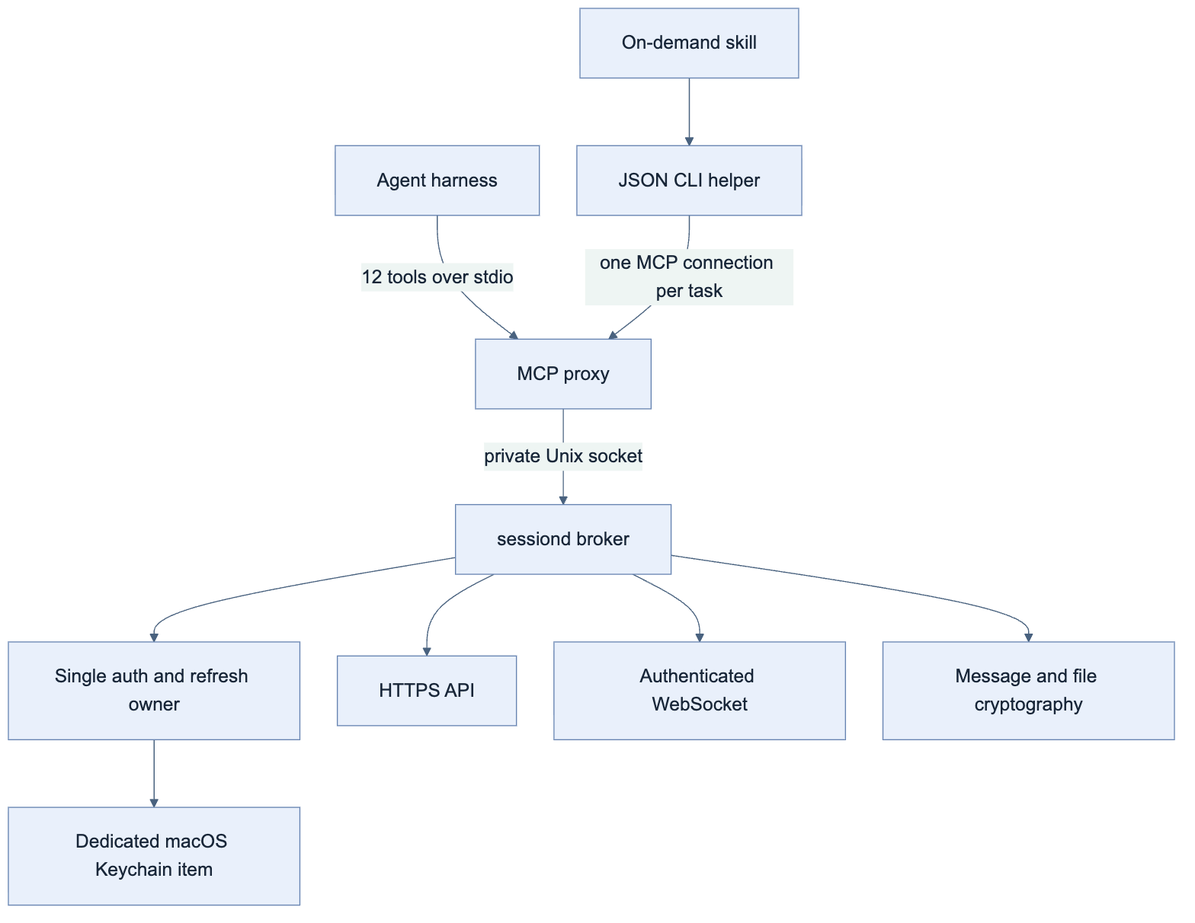
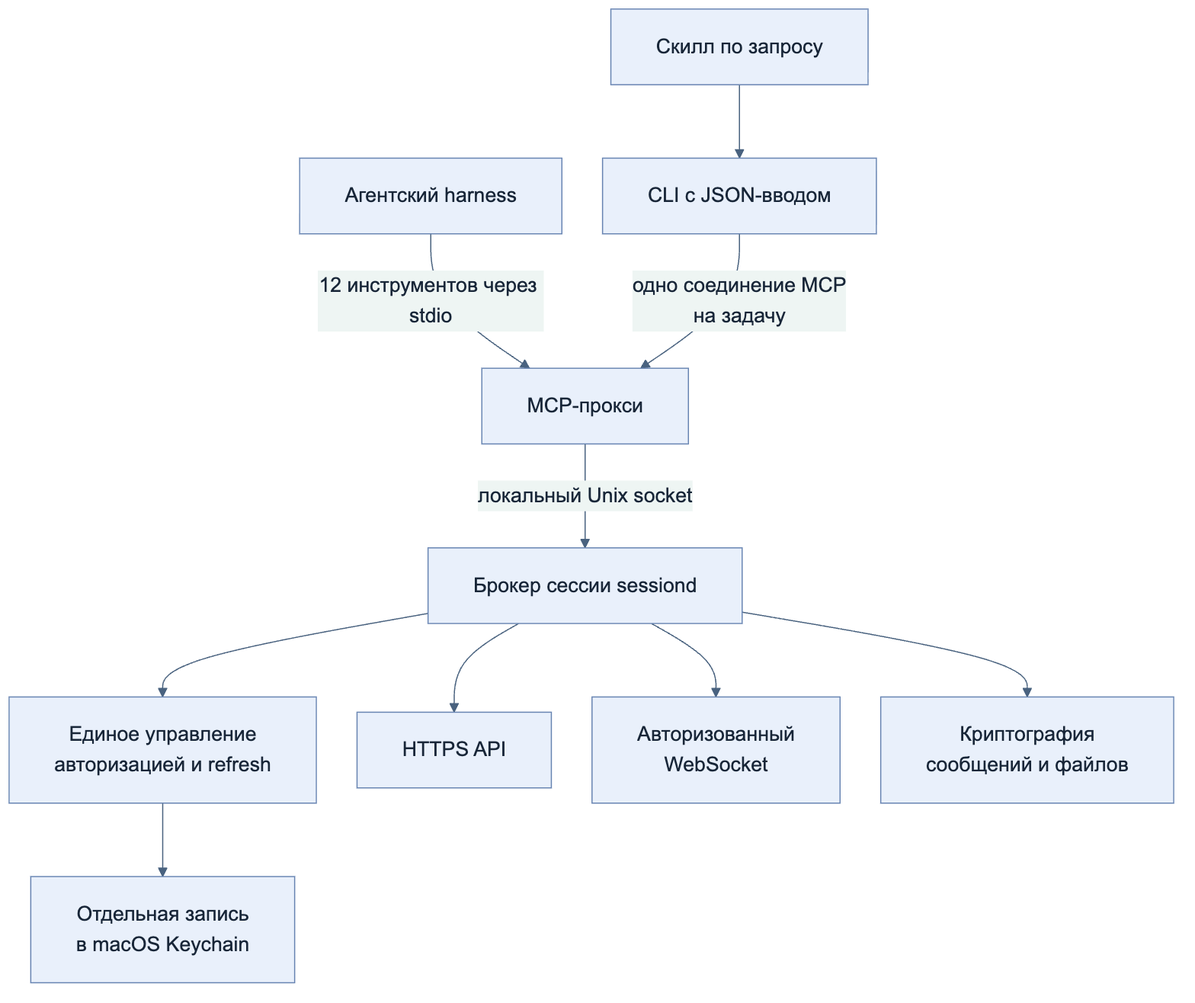
Translate README and architecture diagrams into Russian

diff --git a/README.md b/README.md
@@ -1,23 +1,23 @@
 # express-mcp
 
-An unofficial **eXpress messenger MCP server** for personal agents on macOS. Read chats and group threads, find people, send text or attachments, and download verified files. A persistent session broker owns authentication; short-lived agents connect over a private Unix socket.
+Неофициальный **MCP-сервер для мессенджера eXpress** и персональных агентов на macOS. Позволяет читать чаты и треды в группах, искать людей, отправлять сообщения и вложения, а также скачивать файлы с проверкой целостности. Авторизацией управляет постоянно работающий брокер сессии. Агенты подключаются к нему через локальный Unix socket и могут завершаться, не прерывая сессию.
 
-**Start here:** [Install](#install-on-macos) → [Log in](#log-in) → [Connect your agent](#agent-harness-quick-guide).
+**Начало работы:** [Установка](#установка-на-macos) → [Вход](#вход) → [Подключение к агентам](#подключение-к-агентам).
 
-## Architecture
+## Архитектура
 
-![Session broker and on-demand agent architecture](docs/diagrams/architecture.png)
+![Архитектура брокера сессии и подключения агента по запросу](docs/diagrams/architecture.png)
 
-- `sessiond` holds the only upstream connection and refresh writer. A native process lease prevents two local brokers from owning the same session.
-- Tokens, keys, device identity and rotation generation live together in a dedicated Keychain item. The official app's credentials are never read. MCP returns content and sanitized diagnostics, not credentials.
-- Each MCP caller has separate, short-lived confirmations and pagination cursors. Closing a connection discards that state; restarting an agent does not log out the broker.
-- Origins are explicitly configured and HTTPS-validated. QR enrollment must match the configured CTS exactly. Redirects are rejected; custom trust roots can be supplied with `NODE_EXTRA_CA_CERTS` before installation.
+- `sessiond` управляет взаимодействием с сервером и обновлением токенов. Системная блокировка не позволяет двум локальным брокерам одновременно владеть одной сессией.
+- Токены, ключи, идентификатор устройства и номер поколения токенов хранятся вместе в отдельной записи macOS Keychain. Учётные данные официального приложения не читаются. Через MCP возвращаются содержимое чатов и диагностика без секретов.
+- У каждого MCP-подключения свои короткоживущие подтверждения отправки и курсоры пагинации. При закрытии подключения они удаляются, но сессия брокера продолжает работать.
+- Адреса серверов задаются явно и проверяются как HTTPS origins. При входе через QR адрес CTS должен точно совпасть с конфигурацией. HTTP-редиректы запрещены. Дополнительные корневые сертификаты можно подключить через `NODE_EXTRA_CA_CERTS` перед установкой.
 
-![QR enrollment and refresh rotation sequence](docs/diagrams/authentication.png)
+![Последовательность входа через QR и обновления токенов](docs/diagrams/authentication.png)
 
-## Install on macOS
+## Установка на macOS
 
-Requires **Node.js 22+**, npm, an active macOS user login with an accessible login Keychain, and Xcode Command Line Tools (`xcode-select --install`). This release is source-installed; it is not published to npm. Linux and Windows session brokers are not supported.
+Нужны **Node.js 22+**, npm, активный вход пользователя в macOS с доступной связкой ключей `login` и Xcode Command Line Tools (`xcode-select --install`). Эта версия устанавливается из исходников и не опубликована в npm. Запуск брокера на Linux и Windows не поддерживается.
 
 ```sh
 git clone https://github.com/artdaal/express-mcp.git
@@ -26,7 +26,7 @@ npm ci
 npm run build
 ```
 
-Create a private JSON configuration outside this repository. Obtain the **exact CTS origin**, ETS origin, web origin and client package identifier from your deployment administrator. The values below are examples, not a working public service:
+Создайте приватный JSON-файл конфигурации за пределами репозитория. У администратора вашей инсталляции нужно узнать **точный CTS origin**, адреса ETS и веб-клиента, а также идентификатор пакета клиента. Значения ниже приведены для примера — работающего сервиса по этим адресам нет:
 
 ```json
 {
@@ -44,9 +44,9 @@ node dist/src/cli.js configure < /absolute/private/deployment.json
 node dist/src/cli.js install
 ```
 
-`configure` writes an owner-only configuration under `~/Library/Application Support/express-mcp/`. `install` compiles the small Swift helpers, installs a user LaunchAgent and checks broker readiness. It creates a private rollback backup and **does not modify any agent harness configuration**. Re-run `install` after changing configuration or upgrading the checkout. Keep the checkout at a stable path.
+`configure` сохраняет конфигурацию в `~/Library/Application Support/express-mcp/` с доступом только для владельца. `install` компилирует небольшие утилиты на Swift, устанавливает пользовательский LaunchAgent и проверяет готовность брокера. Перед заменой LaunchAgent создаётся приватная резервная копия для отката. **Настройки агентских harness не меняются.** Повторяйте `install` после изменения конфигурации или обновления исходников. Не перемещайте каталог установленного репозитория.
 
-## Log in
+## Вход
 
 ```sh
 node dist/src/cli.js login
@@ -54,15 +54,15 @@ node dist/src/cli.js status
 node dist/src/cli.js session-smoke
 ```
 
-`login` opens a loopback-only QR page on the broker Mac. Scan it in the official mobile client and approve the device. The compatibility profile appears as **Chrome 149.0** on the phone; it does not launch a browser engine for API calls. A QR expires after two minutes; its local page offers renewal for ten minutes.
+`login` открывает страницу с QR на том Mac, где работает брокер. Страница доступна только через loopback. Отсканируйте код официальным мобильным клиентом и подтвердите подключение устройства. В режиме совместимости на телефоне отображается **Chrome 149.0**, хотя браузерный движок для API-запросов не запускается. QR действует две минуты, а получить новый код на той же локальной странице можно в течение десяти минут.
 
-`status` reports local state. `session-smoke` performs an authenticated list and reads one recent message without sending anything; reads may mark a chat read. `authState:ready` alone is not an end-to-end test.
+`status` показывает локальное состояние. `session-smoke` проверяет авторизованный доступ: получает список чатов и читает одно недавнее сообщение, ничего не отправляя. Чтение может отметить чат прочитанным. Сам по себе `authState:ready` ещё не подтверждает работоспособность всей цепочки.
 
-Enroll **each Mac separately**. Never clone a rotating refresh credential into two running brokers. Over SSH, the login page belongs to the remote Mac; use a trusted local port-forward/session to that Mac for enrollment, and ensure its user Keychain is available.
+Подключайте **каждый Mac отдельно**. Не копируйте один ротируемый refresh token в два работающих брокера. При работе по SSH страница входа открывается на удалённом Mac. Для доступа к ней используйте доверенное удалённое подключение или локальный port forwarding; связка ключей пользователя на этом Mac должна быть доступна.
 
-## Agent harness quick guide
+## Подключение к агентам
 
-Use absolute paths and the same macOS user as the broker. Replace `/absolute/express-mcp` below with your checkout. Restart or refresh the harness MCP session after changing its configuration.
+Указывайте абсолютные пути и запускайте MCP от того же пользователя macOS, что и брокер. В примерах замените `/absolute/express-mcp` на путь к своему репозиторию. После изменения настроек перезапустите или обновите MCP-сессию в harness.
 
 ### Codex
 
@@ -70,7 +70,7 @@ Use absolute paths and the same macOS user as the broker. Replace `/absolute/exp
 codex mcp add express -- /absolute/path/to/node /absolute/express-mcp/dist/src/cli.js serve
 ```
 
-Equivalent `~/.codex/config.toml` entry:
+Эквивалентная запись в `~/.codex/config.toml`:
 
 ```toml
 [mcp_servers.express]
@@ -78,15 +78,15 @@ command = "/absolute/path/to/node"
 args = ["/absolute/express-mcp/dist/src/cli.js", "serve"]
 ```
 
-See [Codex MCP configuration](https://learn.chatgpt.com/docs/extend/mcp?surface=cli). Ask the agent to check `express_status`, then list or read a known chat.
+Подробнее — в [документации по MCP в Codex](https://learn.chatgpt.com/docs/extend/mcp?surface=cli). Попросите агента вызвать `express_status`, затем получить список чатов или прочитать знакомый чат.
 
-### Claude Code and other MCP harnesses
+### Claude Code и другие MCP-клиенты
 
 ```sh
 claude mcp add --transport stdio --scope user express -- /absolute/path/to/node /absolute/express-mcp/dist/src/cli.js serve
 ```
 
-See [Claude Code MCP configuration](https://code.claude.com/docs/en/mcp). Other harnesses can use this standard stdio configuration:
+См. [настройку MCP в Claude Code](https://code.claude.com/docs/en/mcp). Для других harness подойдёт стандартная конфигурация stdio:
 
 ```json
 {
@@ -99,57 +99,57 @@ See [Claude Code MCP configuration](https://code.claude.com/docs/en/mcp). Other 
 }
 ```
 
-### OpenClaw: load capabilities on demand
+### OpenClaw: подключение по запросу
 
-Install the skill only in the intended agent's workspace:
+Установите скилл в workspace нужного агента:
 
 ```sh
 node scripts/install-skill.mjs --workspace /absolute/openclaw/workspace
 ```
 
-The installer copies a real skill directory and records local executable paths. It adds **zero global MCP tools**. Only the skill's short discovery description is available by default; its instructions load when the agent selects it. Start a fresh agent session and ask, for example, “Find the Project chat in eXpress and summarize recent replies.” See [OpenClaw skill loading](https://docs.openclaw.ai/tools/skills).
+Установщик копирует каталог скилла и сохраняет локальные пути к исполняемым файлам. **Глобальные MCP-инструменты не добавляются.** По умолчанию агент видит только короткое описание скилла; полные инструкции загружаются, когда он выбирает его для задачи. Начните новую сессию и попросите, например: «Найди в eXpress чат проекта и кратко перескажи последние ответы». Механизм описан в [документации OpenClaw](https://docs.openclaw.ai/tools/skills).
 
-The skill invokes a bounded JSON CLI. Preparation and sending share one MCP connection, avoiding confirmation failures caused by separate one-shot MCP invocations. A manual read-only check:
+Скилл вызывает CLI с JSON-вводом и ограниченным объёмом результата. Подготовка и отправка выполняются в одном MCP-подключении: подтверждение не теряется между отдельными запусками клиента. Пример ручной проверки без отправки сообщений:
 
 ```sh
 node dist/src/cli.js agent <<'JSON'
-{"operation":"search-chats","query":"Project","limit":50,"pages":3}
+{"operation":"search-chats","query":"Проект","limit":50,"pages":3}
 JSON
 ```
 
-Verify discovery with `openclaw skills --agent main info express-messenger --json` (replace `main` with your agent ID). If the directory is present but the running gateway still reports an old skill catalog, restart it with `openclaw gateway restart`, then start a fresh agent session.
+Проверьте, что OpenClaw обнаружил скилл: `openclaw skills --agent main info express-messenger --json`. Вместо `main` укажите ID своего агента. Если каталог уже установлен, но gateway всё ещё возвращает старый список скиллов, выполните `openclaw gateway restart` и начните новую сессию агента.
 
-The full request examples are in [the skill](skills/express-messenger/SKILL.md). The helper never automatically retries writes. `confirmed:true` is an explicit caller assertion that the user authorized the exact recipient and content; it is not an independent permission system. On updates, review and back up the existing skill before replacing it; the installer refuses to overwrite one silently.
+Все примеры запросов находятся в [инструкциях скилла](skills/express-messenger/SKILL.md). CLI не повторяет операции записи автоматически. `confirmed:true` означает, что вызывающая сторона подтверждает разрешение пользователя на конкретного получателя и содержимое; сам этот флаг не является отдельной системой контроля доступа. Перед обновлением скилла проверьте изменения и сохраните резервную копию: установщик не перезаписывает существующий каталог автоматически.
 
-## Capabilities and bounds
+## Возможности и ограничения
 
-| Area | MCP tools (`express_` prefix) |
+| Назначение | MCP-инструменты с префиксом `express_` |
 | --- | --- |
-| Session and discovery | `status`, `list_chats`, `search_direct_chats`, `get_chat_info` |
-| History | `read_chat`, `list_threads`, `read_thread` |
-| Text | `prepare_message`, `send_message` |
-| Files | `prepare_attachment`, `send_attachment`, `download_attachment` |
+| Сессия и поиск | `status`, `list_chats`, `search_direct_chats`, `get_chat_info` |
+| История переписки | `read_chat`, `list_threads`, `read_thread` |
+| Текстовые сообщения | `prepare_message`, `send_message` |
+| Вложения | `prepare_attachment`, `send_attachment`, `download_attachment` |
 
-Text and attachments use exact-content, caller-bound, single-use confirmations valid for 120 seconds. Attachment preparation hashes the source; changing it invalidates confirmation. Uploads and message writes are never blindly retried after an uncertain response. Image uploads use an encrypted PNG original plus an encrypted JPEG preview. Downloads verify message signatures, secretstream integrity, plaintext size and hash, then save into a new private directory.
+Для текста и вложений используются одноразовые подтверждения, привязанные к конкретному MCP-подключению и точному содержимому. Они действуют 120 секунд. На этапе подготовки вложения вычисляется хеш исходного файла; изменение файла делает подтверждение недействительным. Если результат загрузки или отправки неизвестен, автоматического повтора не будет. Изображение отправляется как зашифрованный PNG-оригинал с отдельно зашифрованным JPEG-превью. При скачивании проверяются подпись сообщения, целостность secretstream, размер и хеш расшифрованного файла. Результат сохраняется в новый приватный каталог.
 
-Current limits: 50 items per MCP page; CLI up to 20 pages and about 200 KiB of content; 10 MiB per attachment; PNG image uploads only; a bounded recent thread list; no global full-text search. Some historical messages may be undecryptable and are returned with an explicit error marker. This is an unofficial, version-sensitive protocol integration: deployment versions and policy may differ. The optional legacy DOM adapter is retained for regression work, not the recommended installation path.
+Текущие ограничения: до 50 элементов на страницу MCP, до 20 страниц и примерно 200 KiB содержимого за один вызов CLI, до 10 MiB на вложение. Отправка в режиме изображения поддерживает только PNG. Список тредов ограничен недавними записями, глобального полнотекстового поиска нет. Некоторые старые сообщения могут не расшифровываться — для них возвращается явный признак ошибки. Интеграция неофициальная и зависит от версии протокола; настройки и политики разных инсталляций могут отличаться. Старый DOM-адаптер сохранён для регрессионных проверок, но для обычной установки рекомендуется брокер сессии.
 
-## Maintenance
+## Обслуживание
 
 ```sh
 npm test
 npm run typecheck
 launchctl kickstart -k "gui/$(id -u)/io.github.express-mcp.express-sessiond"
-# Restore the LaunchAgent from a private backup returned by install:
+# Восстановить LaunchAgent из резервной копии, созданной командой install:
 node scripts/install.mjs --restore /absolute/private/backup-directory
 ```
 
-A locked Keychain needs local user action. A revoked session or ambiguous refresh requires a new QR; repeated retries do not repair it. Diagnose upstream errors with the sanitized phase/status in `status`. For an uncertain send, inspect the target history before deciding whether another send is appropriate. An upload may leave an orphaned encrypted file if message creation fails; automatic server-file cleanup is not implemented.
+Если Keychain заблокирован, потребуется действие пользователя на Mac. Отзыв сессии или неопределённый результат refresh требуют нового QR; повторные попытки сами по себе проблему не устранят. Для диагностики ошибок сервера смотрите этап запроса и код ошибки в `status` — без секретов. При неопределённом результате отправки сначала проверьте историю целевого чата. Если файл загрузился, а сообщение не создалось, на сервере может остаться зашифрованный файл без сообщения; автоматическая очистка таких файлов пока не реализована.
 
-## Development and attribution
+## Разработка и источники
 
-Tests cover QR request signatures, origin pinning, refresh races and recovery, IPC caller isolation, message cryptography, encrypted file round trips, bounded agent commands and package installation. Local `.agent/` evidence, credentials, browser profiles, generated binaries and test payloads are excluded from distribution.
+Тесты проверяют подписи QR-запросов, привязку к разрешённым origins, гонки и восстановление при refresh, изоляцию MCP-подключений, криптографию сообщений, шифрование и расшифровку файлов, ограничения CLI и установку пакета. Локальные материалы `.agent/`, учётные данные, браузерные профили, собранные бинарные файлы и тестовые данные не включаются в дистрибутив.
 
-[eXpress CLI by IH8E](https://github.com/IH8E/express-cli/tree/2e58b5fbf4cc2e65c9e689fffa05bffc791ddd90) was a protocol reference for the browser-compatible QR flow; it is not a runtime dependency, and its source is not distributed here. Test request fixtures use synthetic data. Refresh handling also follows the conservative principles in [RFC 9700 §4.14](https://www.rfc-editor.org/rfc/rfc9700.html#section-4.14).
+[eXpress CLI от IH8E](https://github.com/IH8E/express-cli/tree/2e58b5fbf4cc2e65c9e689fffa05bffc791ddd90) использовался как источник сведений о протоколе входа через QR в режиме совместимости с веб-клиентом. Он не является runtime-зависимостью, его исходный код здесь не распространяется. Тестовые примеры запросов содержат синтетические данные. Обработка refresh также учитывает консервативный подход из [RFC 9700 §4.14](https://www.rfc-editor.org/rfc/rfc9700.html#section-4.14).
 
-MIT licensed. Not affiliated with or endorsed by the eXpress vendor.
+Лицензия MIT. Проект не связан с разработчиком eXpress и не является официальным продуктом.

diff --git a/docs/diagrams/README.md b/docs/diagrams/README.md
@@ -1,12 +1,12 @@
-# README diagrams
+# Диаграммы для README
 
-The main README embeds committed PNGs so readers do not depend on a host's Mermaid renderer. Editable `.mmd` sources and shared styling are kept here.
+В основном README используются готовые PNG из репозитория: их отображение не зависит от поддержки Mermaid на сайте. Здесь хранятся редактируемые исходники `.mmd` и общие настройки оформления.
 
-Render with Mermaid CLI 11.12.0:
+Рендеринг через Mermaid CLI 11.12.0:
 
 ```sh
 npx --yes --package @mermaid-js/mermaid-cli@11.12.0 mmdc -i docs/diagrams/architecture.mmd -o docs/diagrams/architecture.png -c docs/diagrams/config.json -b white -s 2
 npx --yes --package @mermaid-js/mermaid-cli@11.12.0 mmdc -i docs/diagrams/authentication.mmd -o docs/diagrams/authentication.png -c docs/diagrams/config.json -b white -s 2
 ```
 
-When using an existing Chrome installation, Mermaid CLI accepts a private Puppeteer configuration through `-p /absolute/config.json` with its `executablePath`. Inspect both images after rendering and check the published README, not just Markdown syntax.
+Для уже установленного Chrome можно передать приватную конфигурацию Puppeteer через `-p /absolute/config.json`, указав путь к браузеру в `executablePath`. После рендеринга проверьте обе картинки и их отображение в опубликованном README — одной проверки Markdown недостаточно.
